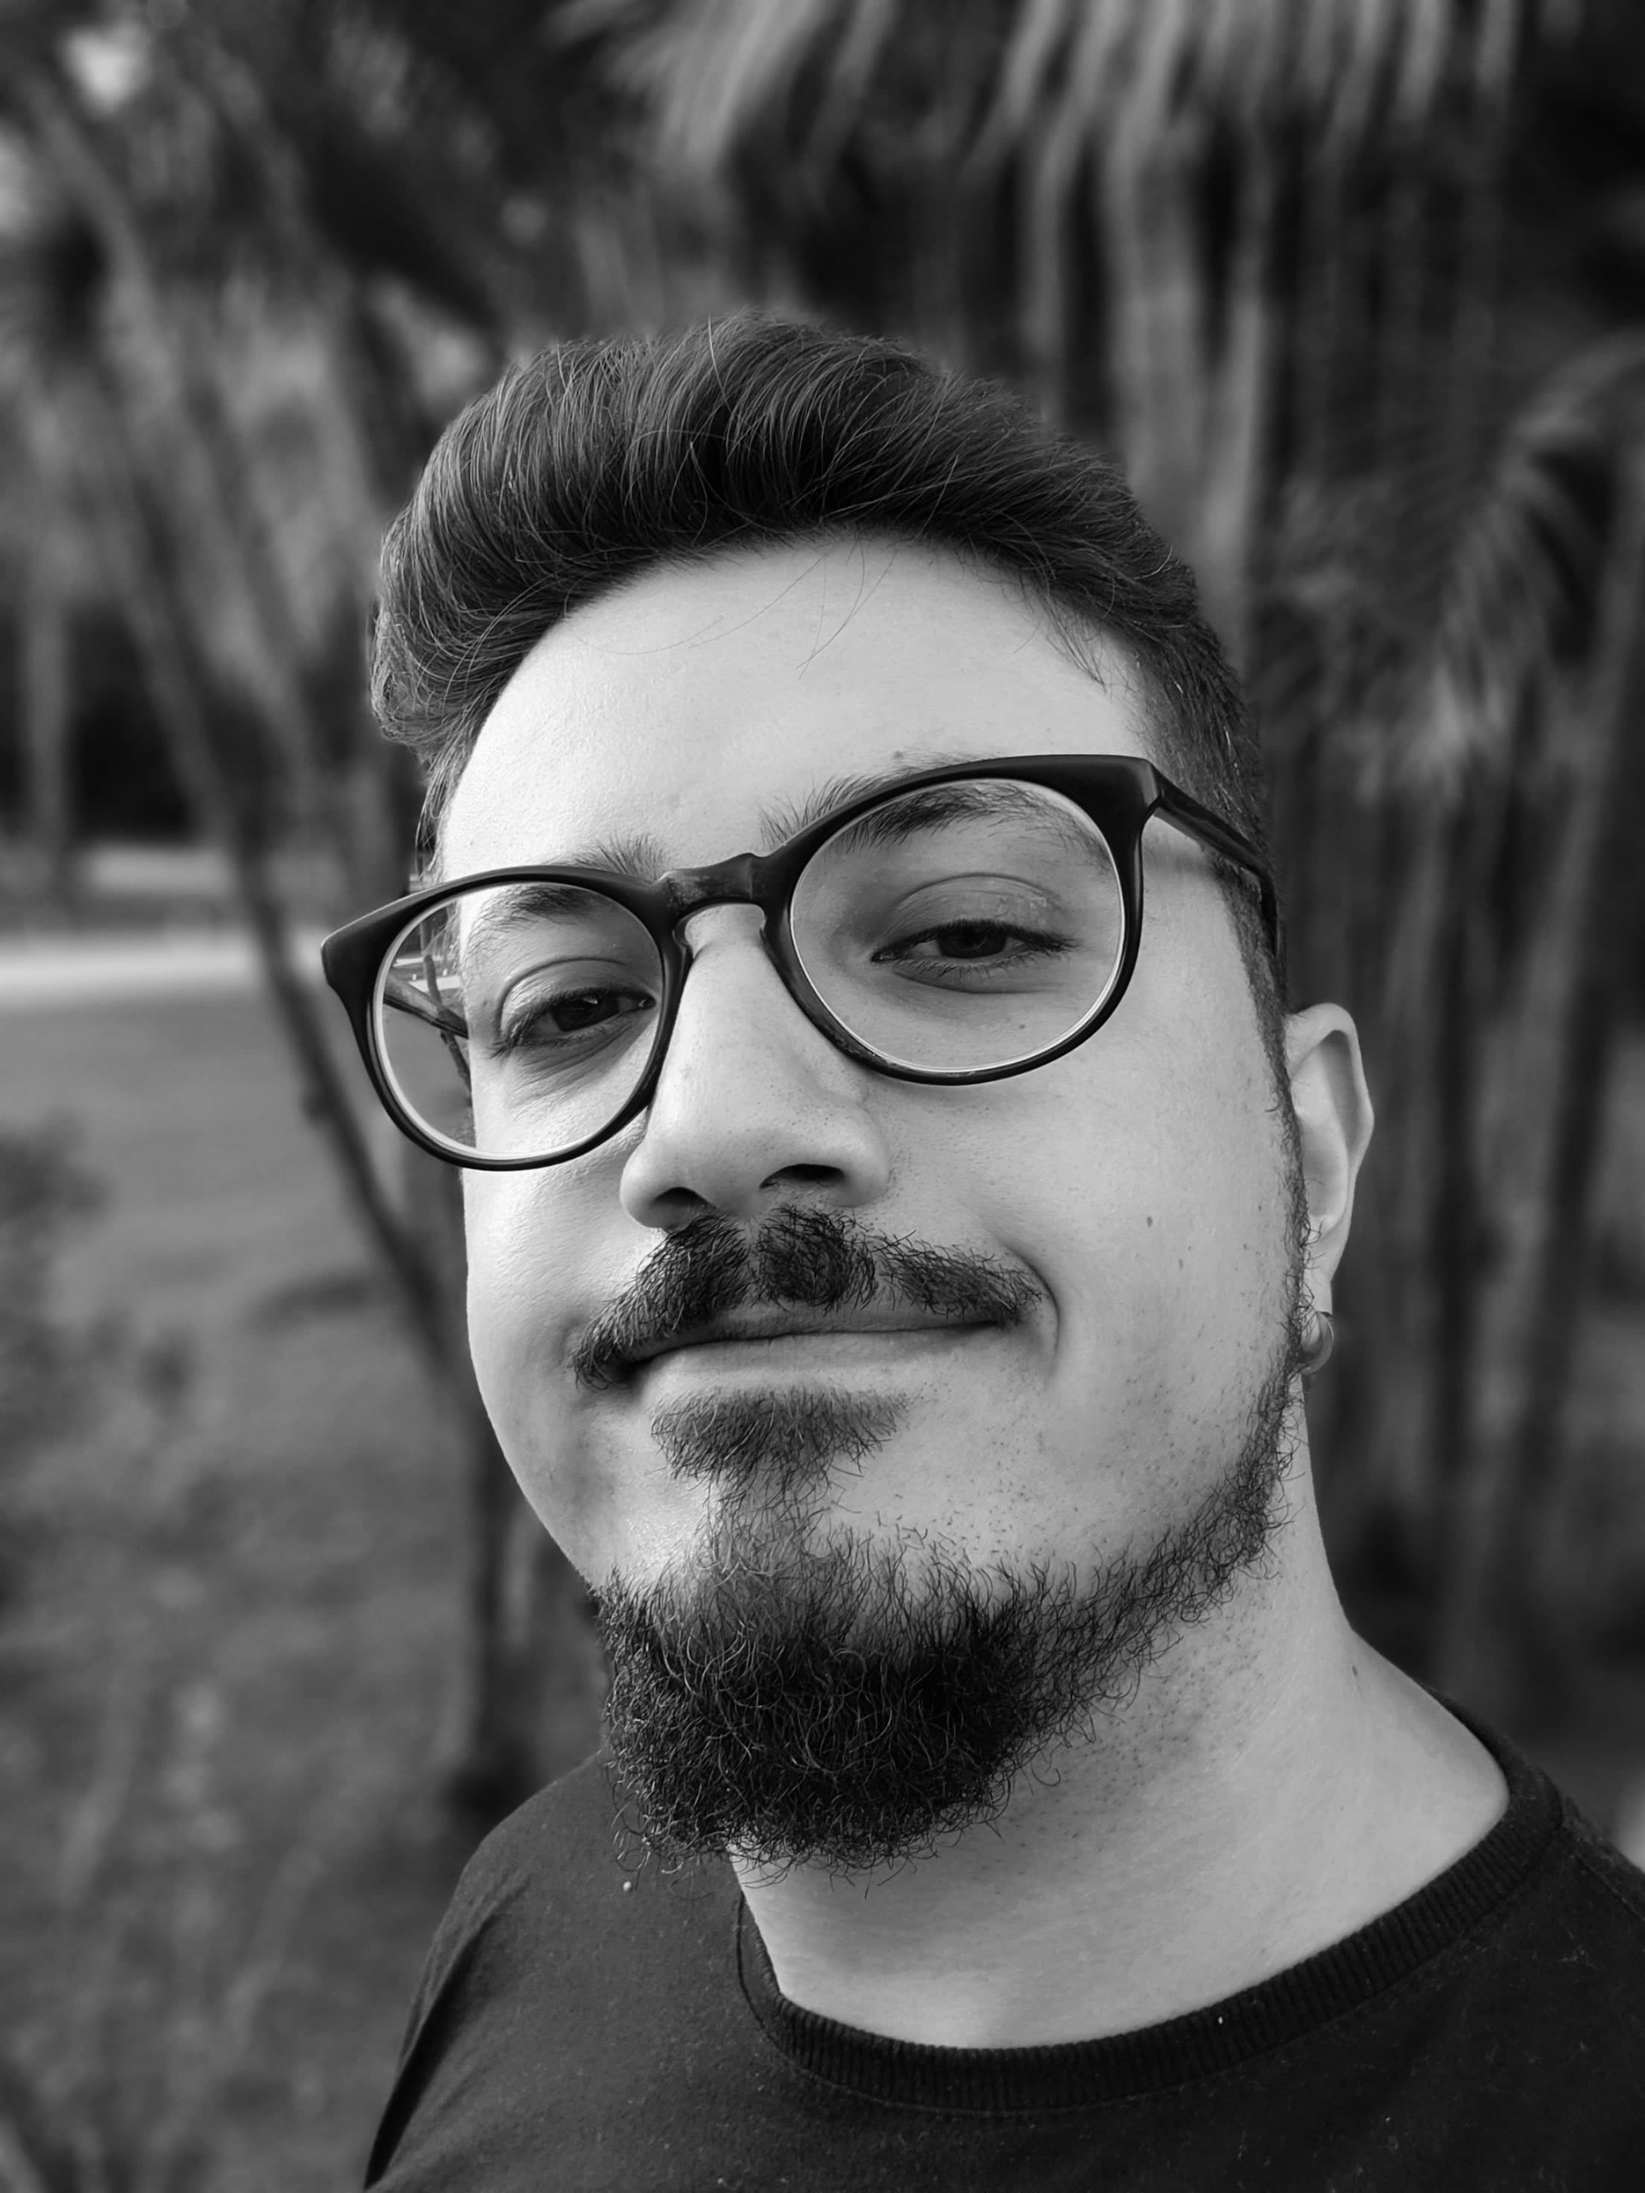
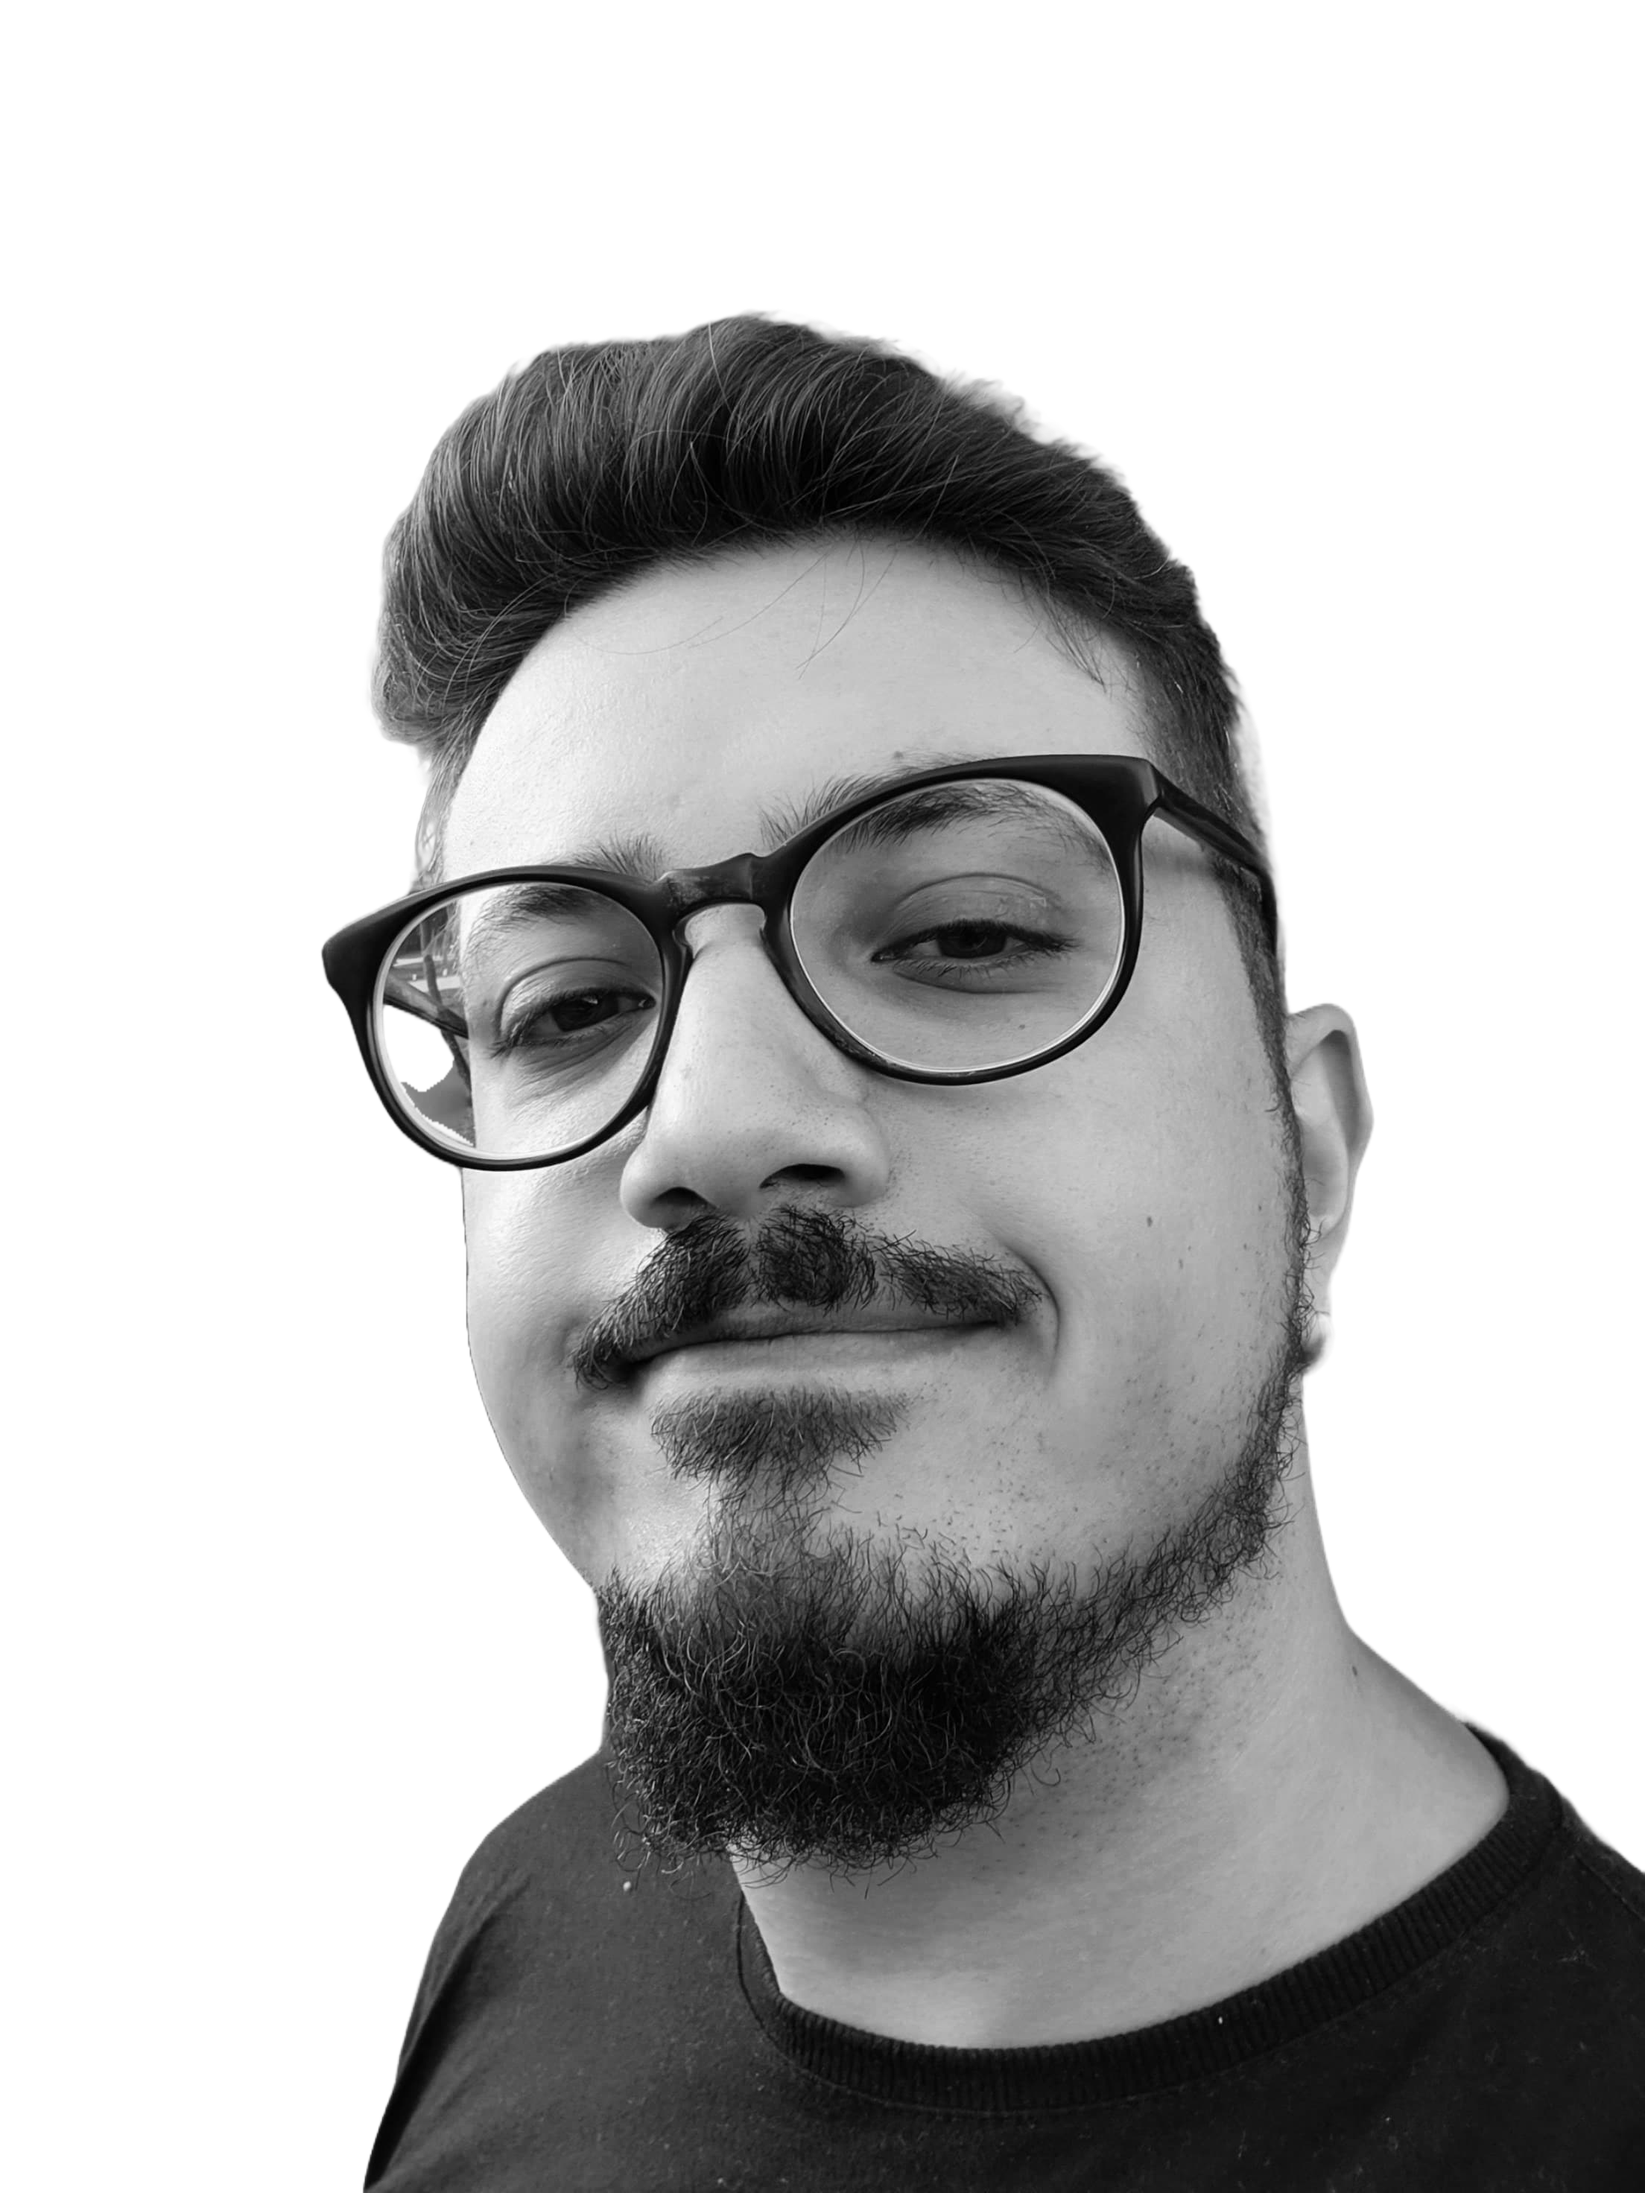
Add profile picture on Hero section

diff --git a/src/components/Sections/Hero/index.js b/src/components/Sections/Hero/index.js
@@ -1,26 +1,45 @@
-import PatternRings from "@/components/Icons/patternRings";
 import Contact from "@/components/ContactLink";
+import PatternCircle from "@/components/Icons/patternCircle";
+import PatternRings from "@/components/Icons/patternRings";
+
+import Image from "next/image";
 
 export default function Hero() {
   return (
     <section
       id="hero"
-      className="w-full flex flex-col justify-center items-center md:block gap-6 mb-20 md:mb-14">
-      <div className="lg:w-[710px] md:w-3/5 relative flex flex-col items-center md:items-start mt-32 lg:mb-16 md:mb-8">
-        <div className="absolute -top-16 -left-[200px]">
-          <PatternRings />
+      className="w-full flex flex-col justify-center items-center mb-16 md:mb-14 -mt-20 sm:-mt-10">
+      <div className="relative flex flex-col md:flex-row-reverse items-center md:items-start lg:justify-stretch mt-32 lg:mb-16 md:mb-8">
+        <div className="relative w-full h-full mb-10 lg:w-3/4">
+          <div className="absolute right-56 md:right-[400px] lg:right-[700px] z-40">
+            <PatternRings />
+          </div>
+          <div className="relative mx-12 md:mx-0 bg-gradient-to-t from-[#242424] z-40 md:absolute md:-top-24 md:-left-8 md:w-[350px] md:h-[560px] lg:w-[420px] lg:left-3">
+            <Image
+              src="/profile.png"
+              width={600}
+              height={1000}
+              alt="Evandro Costa profile picture"
+              priority={true}
+              className="md:absolute bottom-0"
+            />
+          </div>
+          <div className="z-50 absolute bottom-0 -right-24 md:-top-8 lg:top-[18rem] lg:-left-[54px]">
+            <PatternCircle />
+          </div>
         </div>
-        <h1 className="text-[40px] leading-10 sm:text-7xl lg:text-[88px] sm:text-pretty text-center md:text-left text-white mb-2">
-          <span>Bom te ver aqui! </span>
-          <br className="sm:none"></br>
-          <span className="text text-underline">Eu sou Evandro Costa.</span>
-        </h1>
-        <p className="mt-10 w-full text-balance text-center md:w-2/3 md:text-left">
-          Sou um desenvolvedor fullstack no Brasil, <br></br>
-          comprometido em criar soluções digitais inovadoras e eficientes para desafios complexos.
-        </p>
+        <div className="z-50 flex flex-col items-center md:items-start gap-6 md:gap-8">
+          <h1 className="text-[40px] leading-10 sm:text-7xl lg:text-[88px] sm:text-pretty text-center md:text-left text-white mb-2">
+            <span>Bom te ver aqui! </span>
+            <span className="text text-underline ">Eu sou Evandro Costa.</span>
+          </h1>
+          <p className="w-full text-balance text-center md:text-left lg:mb-16 lg:w-3/4">
+            Sou um desenvolvedor fullstack no Brasil, comprometido em criar soluções digitais
+            inovadoras e eficientes para desafios complexos.
+          </p>
+          <Contact name={"CONTATO"} section={"#contact"} />
+        </div>
       </div>
-      <Contact name={"CONTATO"} section={"#contact"} />
     </section>
   );
 }

diff --git a/src/components/Social/index.js b/src/components/Social/index.js
@@ -1,42 +1,45 @@
 import GitHubIcon from "@/components/Icons/githubIcon";
 import LinkedInIcon from "@/components/Icons/linkedinIcon";
 import FrontendMentorIcon from "@/components/Icons/frontendMentorIcon";
+
 import Link from "next/link";
 
 export default function Social() {
   return (
-    <div className="flex flex-col gap-4 md:flex-row justify-between items-center w-full max-w-screen-xl">
-      <span className="text-white text-2xl md:text-3xl tracking-[0.5px] font-bold">
+    <div className="flex flex-col mx-auto gap-4 md:flex-row justify-between items-center w-min sm:w-full max-w-screen-xl">
+      <span className="text-white text-2xl md:text-3xl tracking-[0.5px] font-bold px-5">
         <Link aria-label="Link para retornar a home" href="/">
           evandrocosta.dev
         </Link>
       </span>
-      <span className="flex gap-8">
-        <a
-          className="text-white hover:text-green"
-          aria-label="Ícone Perfil Github"
-          href="https://github.com/evans-costa"
-          target="_blank"
-          rel="noopener noreferrer">
-          <GitHubIcon />
-        </a>
-        <a
-          className="text-white hover:text-green"
-          aria-label="Ícone Perfil LinkedIn"
-          href="https://www.linkedin.com/in/evandro-souzac/"
-          target="_blank"
-          rel="noopener noreferrer">
-          <LinkedInIcon />
-        </a>
-        <a
-          className="text-white hover:text-green"
-          aria-label="Ícone Perfil Frontend Mentor"
-          href="https://www.frontendmentor.io/profile/evans-costa"
-          target="_blank"
-          rel="noopener noreferrer">
-          <FrontendMentorIcon />
-        </a>
-      </span>
+      <div className="relative z-20 flex flex-col justify-center items-center gap-4">
+        <span className="flex gap-8 lg:pr-4">
+          <a
+            className="text-white hover:text-green"
+            aria-label="Ícone Perfil Github"
+            href="https://github.com/evans-costa"
+            target="_blank"
+            rel="noopener noreferrer">
+            <GitHubIcon />
+          </a>
+          <a
+            className="text-white hover:text-green"
+            aria-label="Ícone Perfil LinkedIn"
+            href="https://www.linkedin.com/in/evandro-souzac/"
+            target="_blank"
+            rel="noopener noreferrer">
+            <LinkedInIcon />
+          </a>
+          <a
+            className="text-white hover:text-green"
+            aria-label="Ícone Perfil Frontend Mentor"
+            href="https://www.frontendmentor.io/profile/evans-costa"
+            target="_blank"
+            rel="noopener noreferrer">
+            <FrontendMentorIcon />
+          </a>
+        </span>
+      </div>
     </div>
   );
 }

diff --git a/src/app/(main)/page.js b/src/app/(main)/page.js
@@ -4,7 +4,7 @@ import Projects from "@/components/Sections/Projects";
 
 export default async function Home() {
   return (
-    <main className="mx-auto overflow-x-hidden w-full max-w-screen-xl min-h-screen flex-col items-center justify-center md:justify-between px-4 md:px-7 xl:px-12 text-gray">
+    <main className="mx-auto overflow-x-hidden w-full max-w-screen-xl min-h-screen md:justify-between px-4 md:px-7 xl:px-12 text-gray">
       <Hero />
       <Experiences />
       <Projects />

diff --git a/src/components/Sections/Header/index.js b/src/components/Sections/Header/index.js
@@ -4,7 +4,7 @@ export default function Header() {
   return (
     <header
       id="header"
-      className="w-auto max-w-screen-xl flex justify-between mx-auto px-4 md:px-7 xl:px-12 pt-4 md:pt-7 lg:pt-10">
+      className="max-w-screen-xl mx-auto px-4 md:px-7 xl:px-12 pt-4 md:pt-7 lg:pt-10">
       <Social />
     </header>
   );
